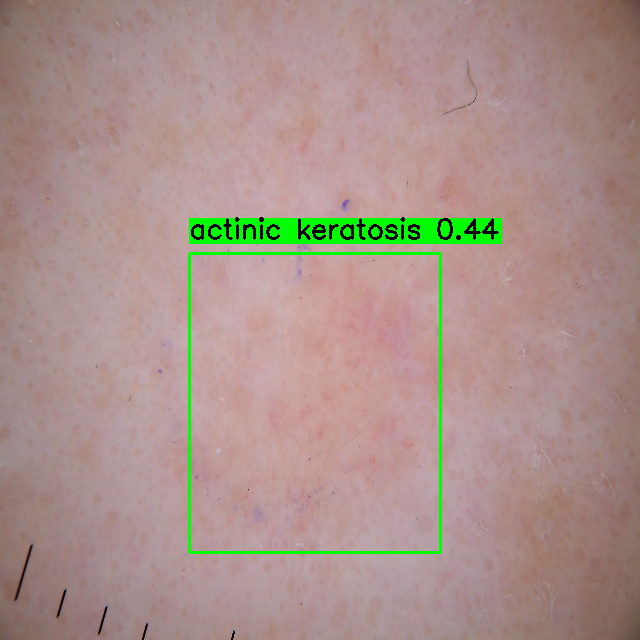
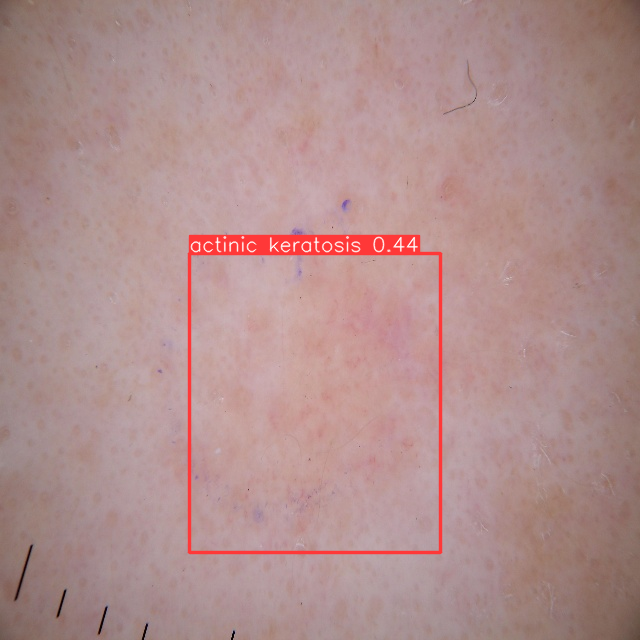
memperbaiki bbox

diff --git a/streamlit_app.py b/streamlit_app.py
@@ -34,47 +34,13 @@ def predict(image):
         boxes = results[0].boxes
         confidences = boxes.conf.cpu().numpy()  # Dapatkan confidence setiap bounding box
         best_box_idx = confidences.argmax()  # Indeks bounding box dengan confidence tertinggi
-        best_box = boxes[best_box_idx]  # Ambil bounding box dengan confidence tertinggi
 
-        # Ambil koordinat dari bounding box terbaik
-        x1, y1, x2, y2 = best_box.xyxy.cpu().numpy()[0].astype(int)  # Koordinat bounding box
+        # Pilih bounding box dengan confidence tertinggi
+        best_result = results[0]
+        best_result.boxes = best_result.boxes[best_box_idx:best_box_idx+1]  # Hanya pilih bounding box tertinggi
 
-        # Ambil nama kelas dari prediksi (misalnya kelas 0, 1, 2, dst.)
-        class_id = int(best_box.cls.cpu().numpy()[0])
-        class_name = model.names[class_id]  # Ambil nama kelas dari YOLO model
-
-        # Ambil nilai confidence dari prediksi
-        confidence_score = confidences[best_box_idx]
-        confidence_text = f'{confidence_score:.2f}'  # Format nilai confidence jadi dua desimal
-
-        # Gabungkan nama kelas dan confidence
-        label = f'{class_name} {confidence_text}'
-
-        # Baca gambar input
-        img = cv2.imread(image_path)
-
-        # Gambarkan bounding box dengan confidence tertinggi di atas gambar
-        cv2.rectangle(img, (x1, y1), (x2, y2), (0, 255, 0), 2)  # Warna hijau untuk bounding box
-
-        # Tentukan ukuran teks dan posisi
-        font = cv2.FONT_HERSHEY_SIMPLEX
-        font_scale = 0.9
-        font_thickness = 2
-        text_size, _ = cv2.getTextSize(label, font, font_scale, font_thickness)
-        text_width, text_height = text_size
-
-        # Tentukan posisi kotak teks
-        text_offset_x = x1
-        text_offset_y = y1 - 10 if y1 - 10 > 10 else y1 + 10
-
-        # Buat kotak latar belakang untuk teks
-        box_coords = ((text_offset_x, text_offset_y - text_height - 5), (text_offset_x + text_width, text_offset_y))
-        cv2.rectangle(img, box_coords[0], box_coords[1], (0, 255, 0), cv2.FILLED)
-
-        # Tambahkan teks label (nama kelas + confidence) di dalam kotak
-        cv2.putText(img, label, (text_offset_x, text_offset_y - 5), font, font_scale, (0, 0, 0), font_thickness)
-
-        result_image_np = img
+        # Plot gambar dengan hanya bounding box tertinggi
+        result_image_np = best_result.plot()  # Menggunakan plot dari YOLO untuk hasil prediksi
     else:
         # Jika tidak ada bounding box, tampilkan gambar input tanpa bounding box
         result_image_np = cv2.imread(image_path)
